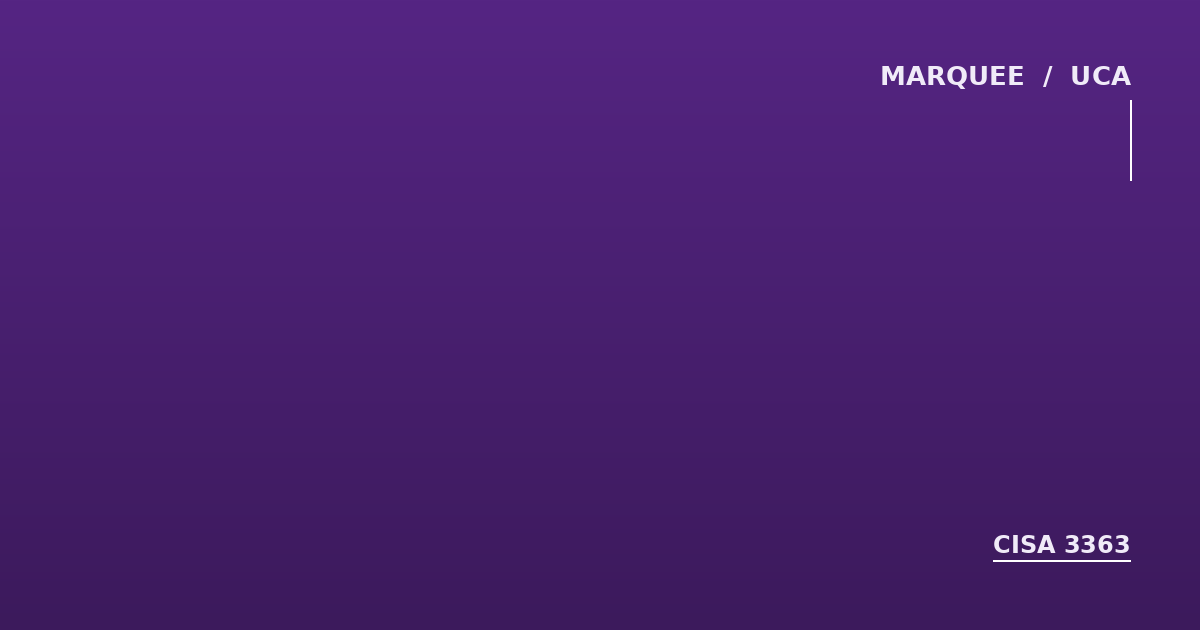
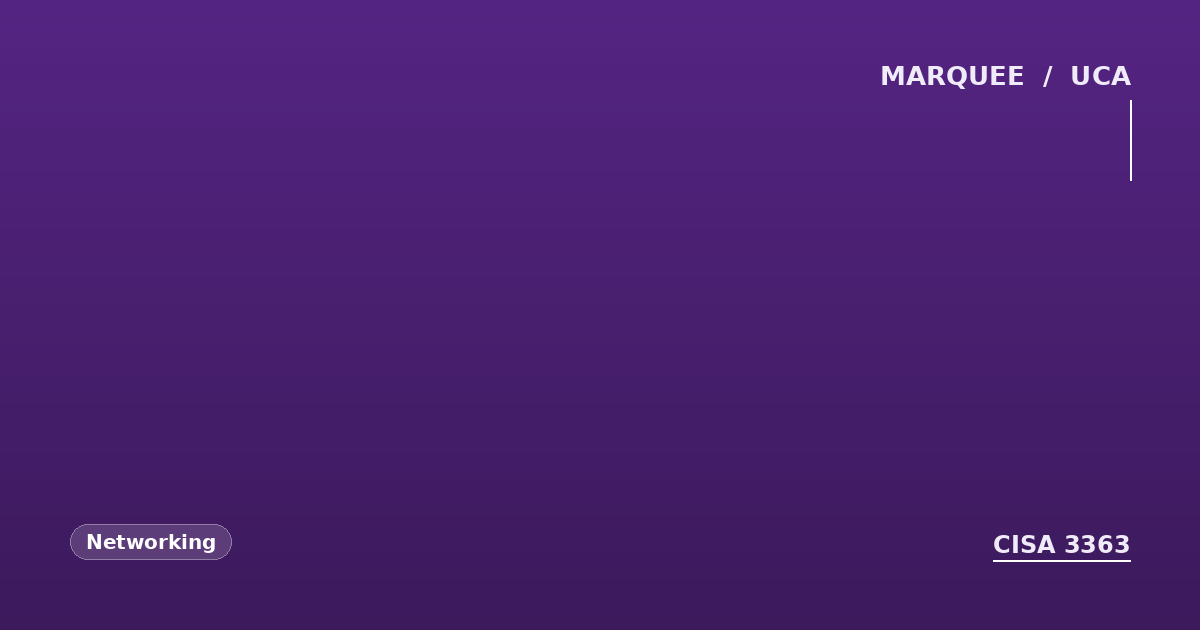
Publish: Pretty picture

Changed region(s): [[0.0617, 0.8143, 0.2158, 0.9048]]

diff --git a/_artifacts/pretty-picture-8.md b/_artifacts/pretty-picture-8.md
@@ -23,7 +23,7 @@ header:
   # link-only artifacts).
   teaser:         /assets/thumbnails/pretty-picture-8.png
 tags:
-  []
+  - "Networking"
 categories:
   - "CISA 3363"
 course_label: "CISA 3363"
@@ -49,6 +49,8 @@ endorser_name:     "Dr. Geoffrey Hill"
 </blockquote>
 
 <p><img src="{{ '/assets/files/pretty-picture-8/Cat-5-pinout.jpg' | relative_url }}" alt="Pretty picture" style="max-width:100%;height:auto;border:1px solid #e8e8e8;border-radius:6px"></p>
+
+**Skills:** `Networking`
 
 ## What I Built
 
